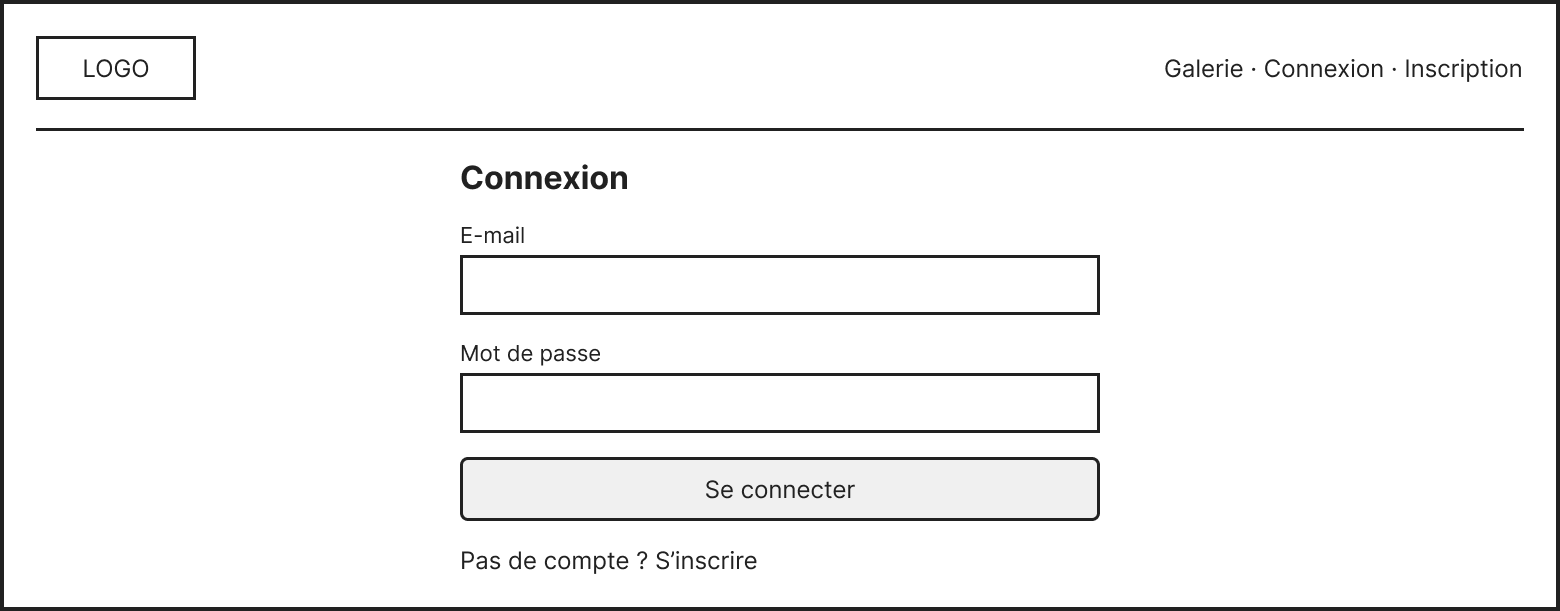
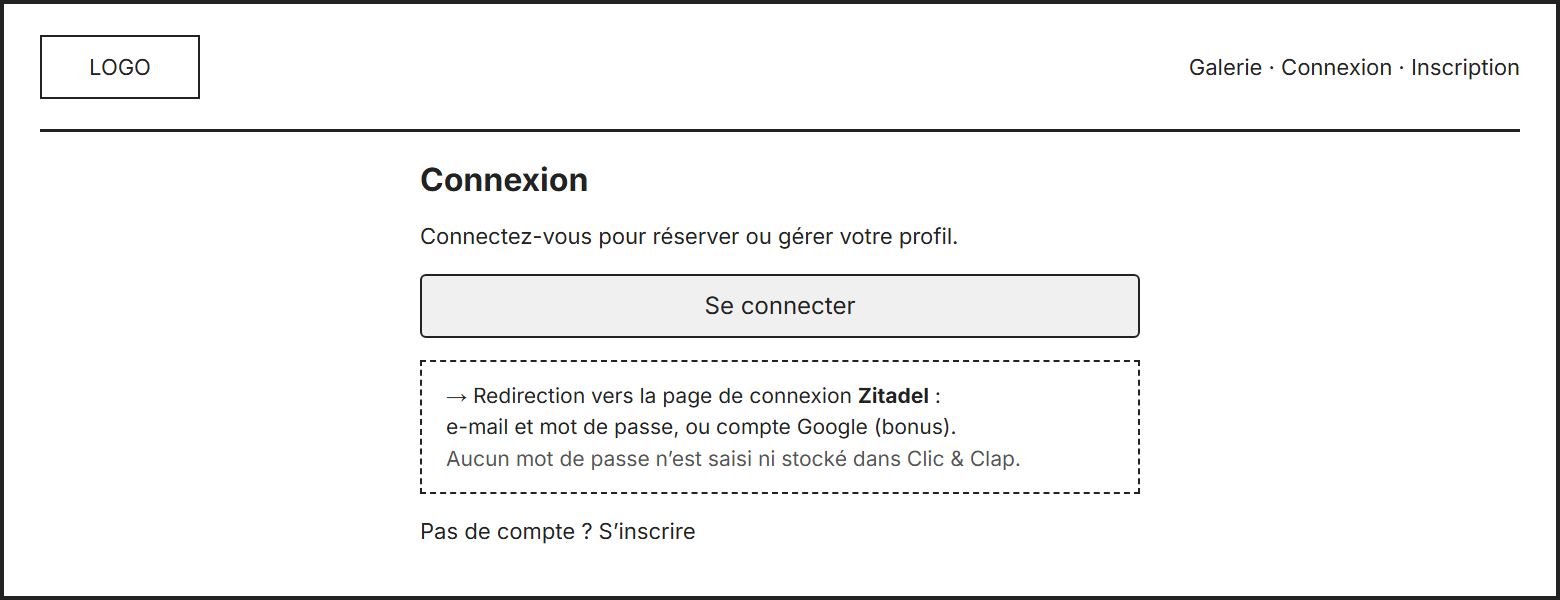
docs: update login and sign-up wireframes for Zitadel

diff --git a/docs/wireframes.md b/docs/wireframes.md
@@ -32,9 +32,15 @@
 ![01 Accueil](wireframes/01-accueil.png)
 
 ### 02 · Connexion
+L'authentification est déléguée à **Zitadel** : le bouton « Se connecter » redirige vers la page de connexion Zitadel (e-mail et mot de passe, ou compte Google en bonus). Clic & Clap ne saisit ni ne stocke aucun mot de passe.
+
+Après la connexion, Zitadel renvoie un token. Le backend vérifie sa signature, puis utilise son identifiant (`sub`) pour retrouver l'utilisateur.
+
 ![02 Connexion](wireframes/02-connexion.png)
 
 ### 03 · Inscription
+Le visiteur choisit d'abord son rôle (**client** ou **créateur**) dans Clic & Clap, puis « Continuer » le redirige vers la page d'inscription Zitadel. Le rôle choisi est enregistré dans son compte.
+
 Après l'inscription : un client est redirigé vers la galerie (01), un créateur vers « Mon profil » (12).
 
 ![03 Inscription](wireframes/03-inscription.png)
